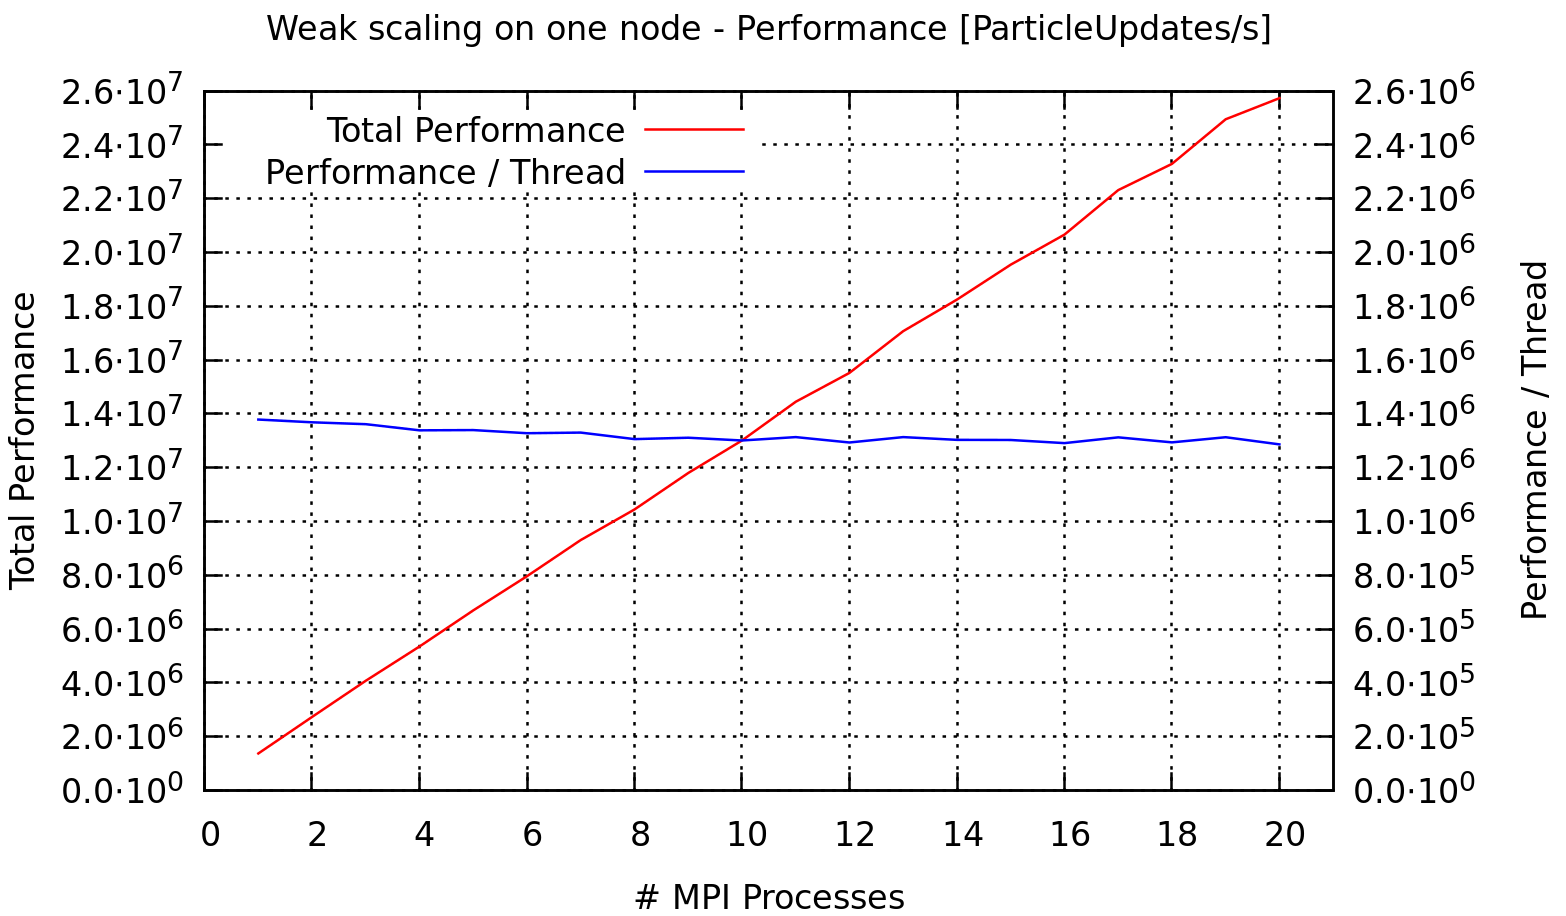
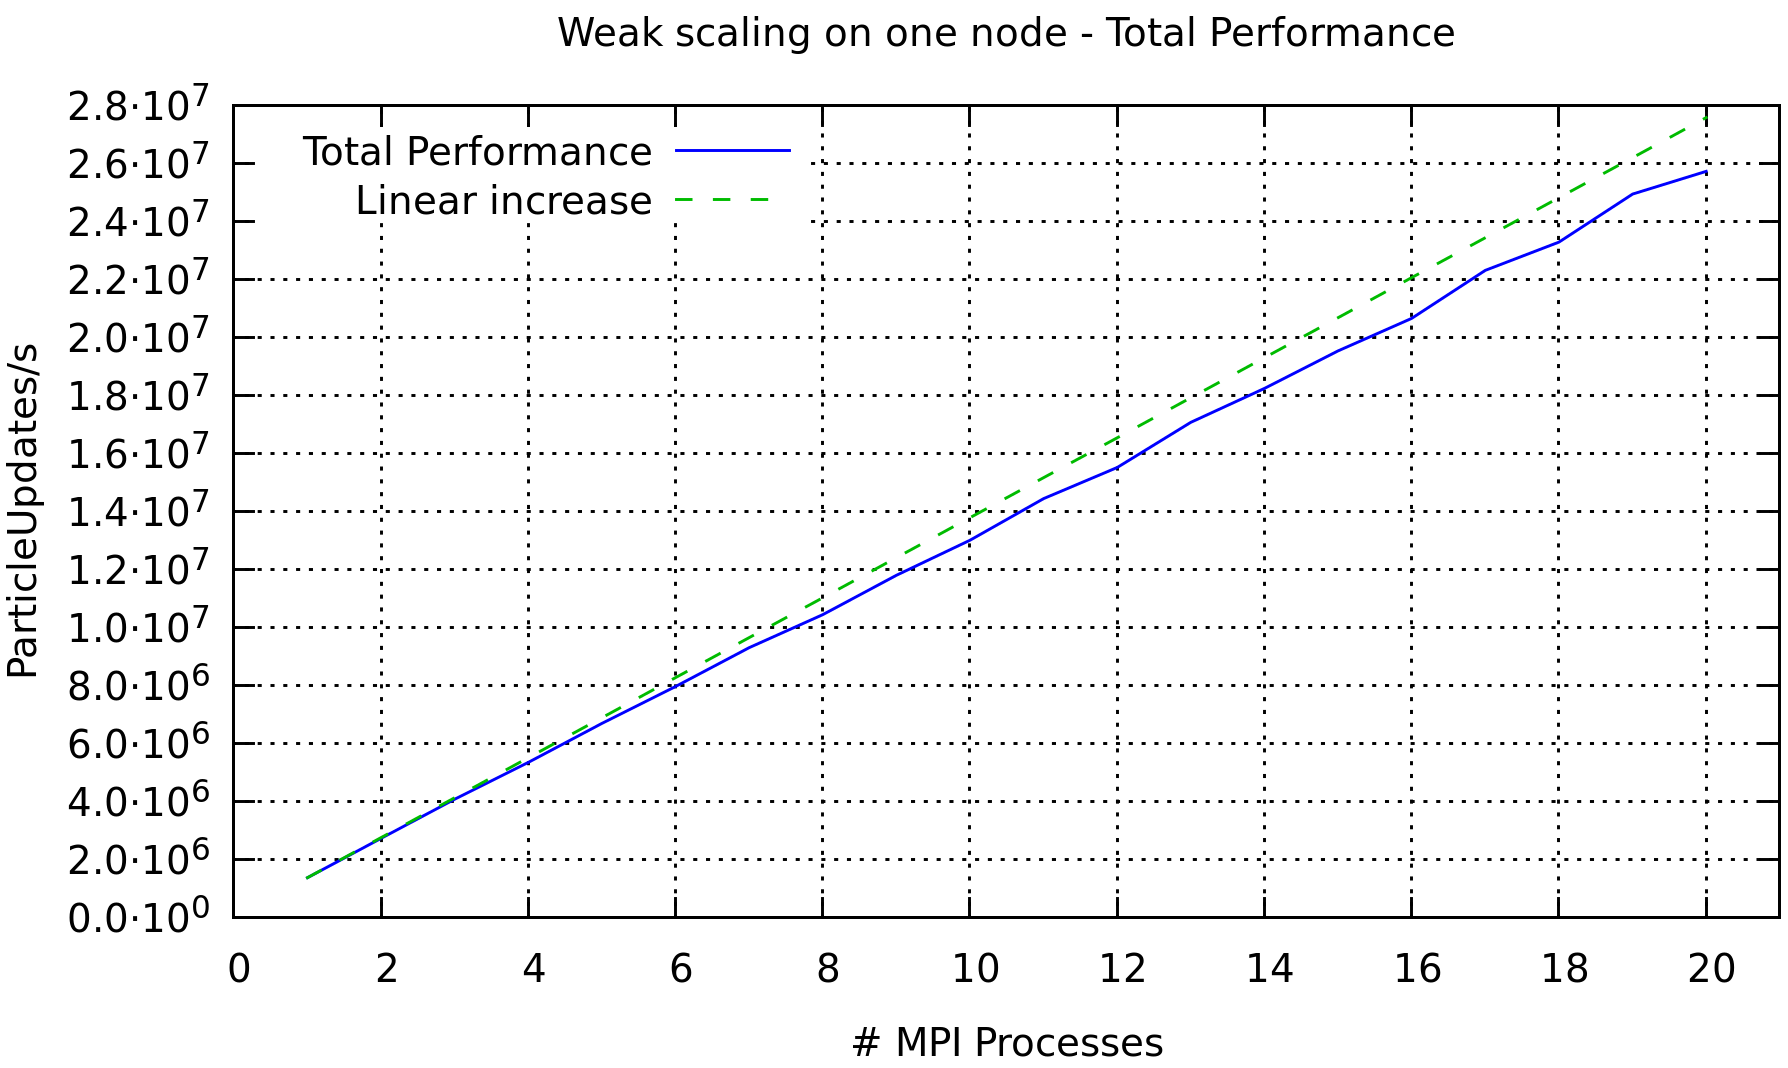
YW: update logbook

diff --git a/log/YW/logbook_YW.md b/log/YW/logbook_YW.md
@@ -104,12 +104,12 @@ Test Documentation:
 ### Testcase 1.1: Scaling on one node (Emmy)
 Performance of MiniMD on one Node (of Emmy) depending on the number of MPI processes:
 
-![Test1.1.1](testcase_1_1_single_node/single_node_speedup.png?raw=true "Test1.1.1")
+![Test1.1.1](testcase_1_1_single_node/speedup_single_node.png?raw=true "Test1.1.1")
 
 An observation of the utilization of the different cores (using the tool `top`) of the node showed, that `likwid-mpirun` assigns the n MPI processes on the first n CPUs of the node (e.g. when 4 MPI processes are specified, CPU 0 - 3 are used).
 Beyond 20 MPI processes, a remarkable performance loss can be observed (see also the corresponding drop in the parallel efficiency below). This is expected, as then one or more CPU cores have to execute more than one MPI process.
 
-![Test1.1.2](testcase_1_1_single_node/single_node_parallel_efficiency.png?raw=true "Test1.1.2")
+![Test1.1.2](testcase_1_1_single_node/par_eff_single_node.png?raw=true "Test1.1.2")
 
 ### Testcase 1.2: Scaling accross multiple nodes (Emmy)
 Performance of MiniMD using multiple nodes on Emmy. Each Node contains 20 cores. To make use the full power of each node, 20 MPI-processes were chosen as granularity in this measurement. In other words, for each measurement a set of n nodes was used to run n * 20 MPI processes. To make sure these processes are distributed equally, the likwid-mpirun option `-nperdomain S:10` was used. This way, each node (containing two sockets with 10 cores each) is assigned 10 MPI-Processes per socket.  
@@ -120,10 +120,10 @@ In order to achieve more reliable results, each measurement has been done 3 time
 
 **Measurement:**
 
-![Test1.2.1](testcase_1_2_many_node/many_node_speedup.png?raw=true "Test1.2.1")
+![Test1.2.1](testcase_1_2_many_node/speedup_multi_node.png?raw=true "Test1.2.1")
 <br/>
 
-![Test1.2.2](testcase_1_2_many_node/many_node_parallel_efficiency.png?raw=true "Test1.2.2")
+![Test1.2.2](testcase_1_2_many_node/par_eff_multi_node.png?raw=true "Test1.2.2")
 
 
 ### Testcase 2.1: Weak scaling on one node (Emmy)
@@ -134,10 +134,14 @@ In weak scaling, the problem size is increased linearly with the number of proce
 This lead to the following performance measurement:  
 
 ![Test2.1.2](testcase_1_3_weak_scaling/performance_single_node.png?raw=true "Test2.1.2")
+<br/>
 
+![Test2.1.3](testcase_1_3_weak_scaling/performance_thread_single_node.png?raw=true "Test2.1.3")
 
 ### Testcase 2.2: Weak scaling on multiple nodes (Emmy)
 
+Weak scaling over multiple nodes (using 20 MPI processes per node):
+<br/>
 ![Test2.2.1](testcase_1_3_weak_scaling/performance_total_multiple_nodes.png?raw=true "Test2.2.1")
 <br/>
 
